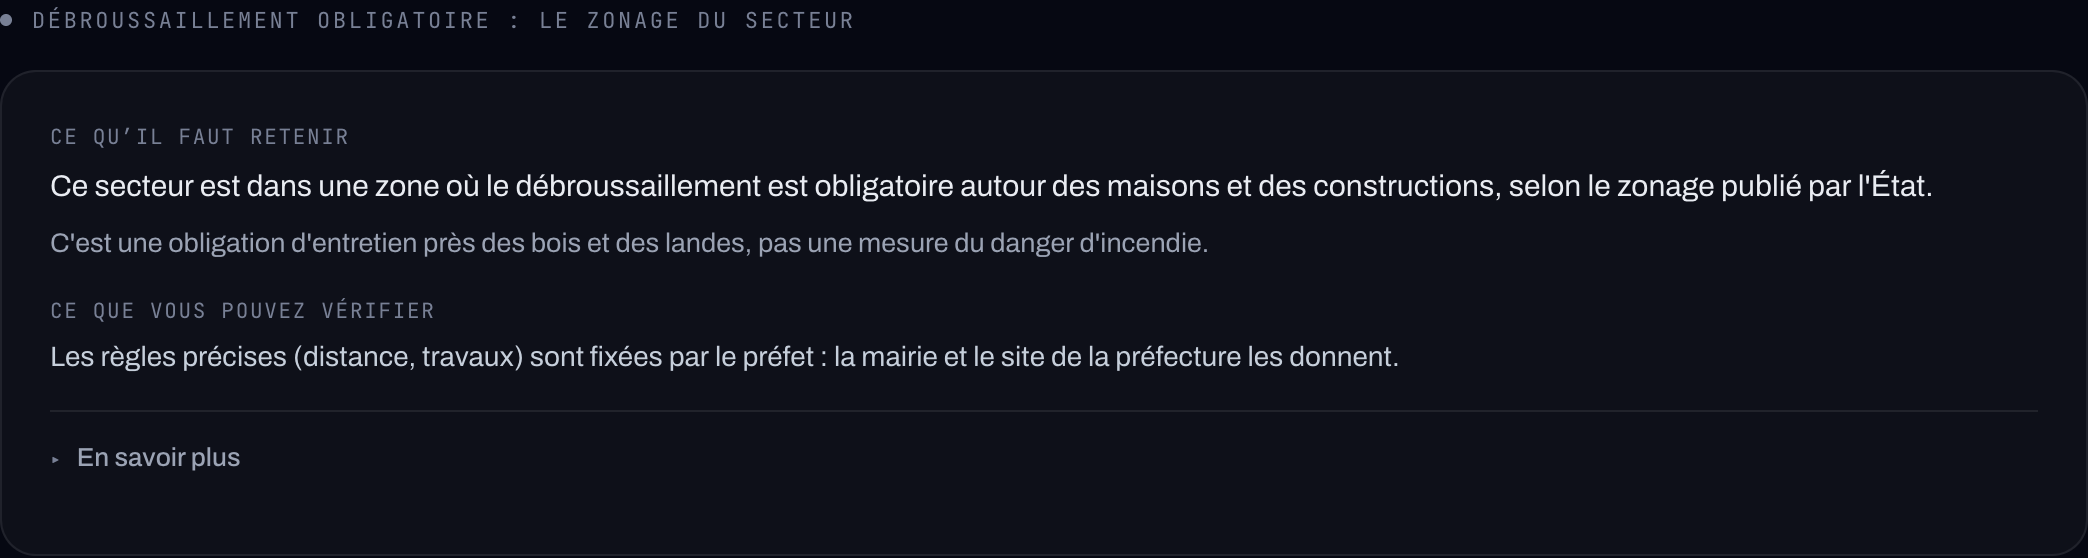
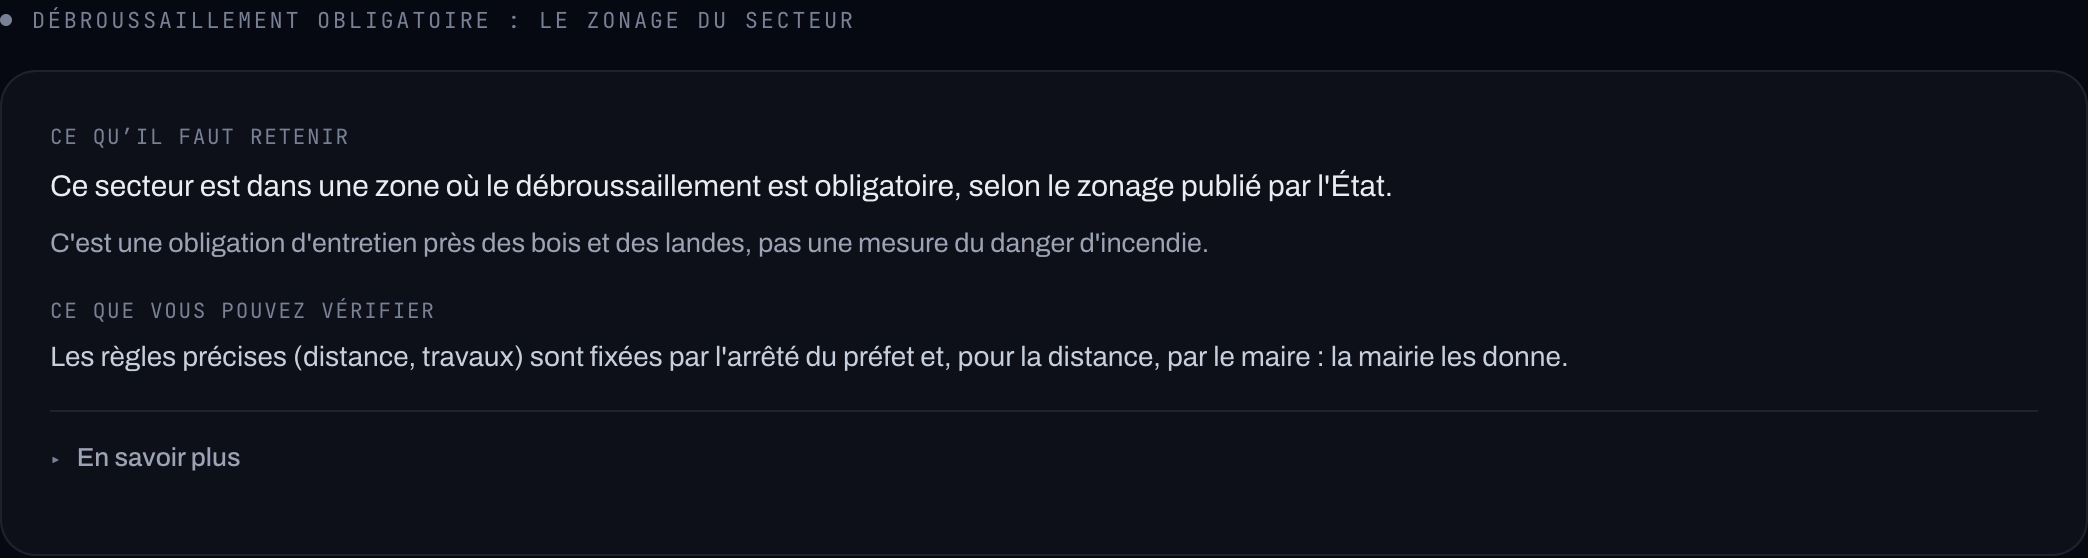
FUT-149 : recette rendue et comptes après la revue ; essai de fusion avec #108

Changed region(s): [[0.4358, 0.3047, 0.9339, 0.3656], [0.3424, 0.6093, 0.7471, 0.6703]]

diff --git a/docs/audits/2026-10-28-fut149-debroussaillement/README.md b/docs/audits/2026-10-28-fut149-debroussaillement/README.md
@@ -111,10 +111,10 @@ par sommet créait 26 polygones invalides (jusqu'à 72 km²), qui auraient rendu
 
 ## Recette
 
-- **Tests** : `src/lib/fut149-debroussaillement.test.ts`, 70 tests (géométrie synthétique : contact, 1 cm, liseré,
+- **Tests** : `src/lib/fut149-debroussaillement.test.ts`, 71 tests (géométrie synthétique : contact, 1 cm, liseré,
   coupe de tuile, cellule pleine, parcelle invalide, voisine, rue, immense ; départements ; pannes et versions ;
   textes rendus et interdits ; lecteur Storage ; 24 adresses réelles contre un oracle en entiers). Suite complète,
-  seule, `--test-concurrency=1` : `main` 3 746 → tête 3 816 (+70), 0 échec. `tsc` propre ; ESLint identique à `main`
+  seule, `--test-concurrency=1` : après réintégration de `main` (#110), `main` 3 754 → tête 3 825 (+71), 0 échec. `tsc` propre ; ESLint identique à `main`
   (6 erreurs et 8 avertissements préexistants ; 0 erreur dans les fichiers de la PR).
 - **Rendu** : banc `/dev/fut149?vue=section|autour|logement&cas=…` capturé par Chrome sans interface
   (`scripts/research/fut149-captures.mjs`) : 16 cas × 2 largeurs, **aucun défilement horizontal**, bloc à 814 px
@@ -145,6 +145,9 @@ Géométrie, tuiles et états inchangés : seuls les textes et leurs tests chang
    sur la section seule.
 5. **Bloc Autour** : grammaire historique de l'écran qui l'accueille (exception déclarée au cliquet du Relevé,
    comme FUT-146), à migrer avec FUT-118.
-6. **PR #108 (FUT-156)** touche aussi `route.ts`, `LogementModule.tsx`, `logement-report-types.ts` et
-   `logement-report-version.ts` : conflits additifs attendus (une ligne par source), à résoudre à la fusion de la
-   seconde.
+6. **PR #108 (FUT-156)** : fusion d'essai faite le 28/10/2026 (tête 56e3369e). Quatre fichiers en conflit, tous
+   additifs (une source de chaque côté) : `route.ts` (import, promesse, déstructuration `…, bruitAerien,
+   debroussaillement, fibre]`, champ du rapport), `LogementModule.tsx` (libellé de source),
+   `logement-report-types.ts` (deux champs : garder le `/**` qui ouvre le commentaire de la fibre),
+   `logement-report-version.ts` (deux sources absentes, deux règles d'actualisation). Garder les deux côtés :
+   `tsc` propre, suite complète 3 882 / 3 882.
